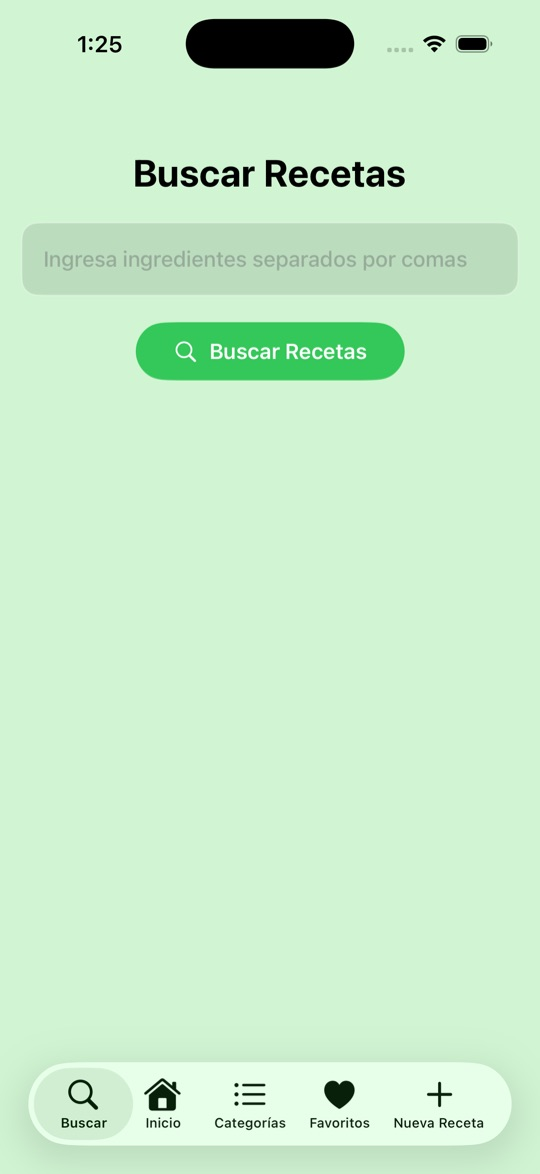
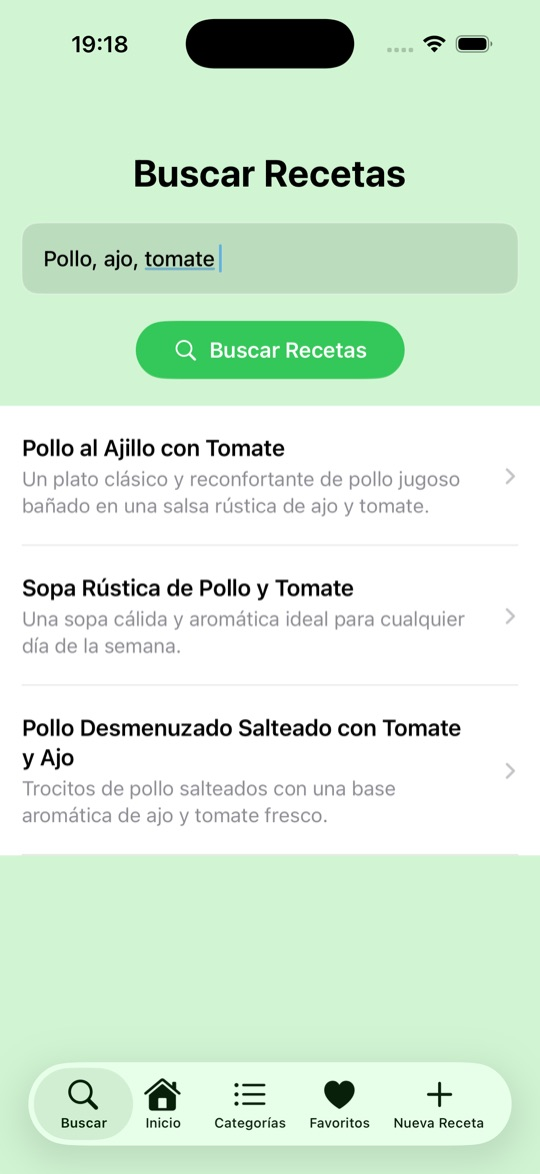
Añade 4 capturas de RecipeIA y la destaca como proyecto principal

diff --git a/src/data/site.ts b/src/data/site.ts
@@ -110,25 +110,27 @@ export const projects = {
   title: 'Proyectos',
   items: [
     {
-      name: 'La Mafia',
-      description:
-        'App Android para el sector restauración, pensada para el restaurante La Mafia: carta digital, categorías de platos, reservas de mesa y acceso a plataformas de delivery (Glovo, Uber Eats, Just Eat).',
-      tags: ['Java', 'Android Studio', 'Android'],
-      code: 'https://github.com/maikolcho/La-Mafia',
-      demo: '', // deja vacío si no hay demo
-    },
-    {
       name: 'RecipeIA',
       description:
         'App iOS en SwiftUI con arquitectura MVVM que genera recetas con IA (API de Gemini) a partir de los ingredientes que tienes en casa. Permite guardar favoritas, crear recetas propias y organizarlas en categorías editables, con los datos guardados en el dispositivo.',
       tags: ['Swift', 'SwiftUI', 'MVVM', 'IA', 'API REST', 'iOS'],
       // Capturas: sube imágenes a public/proyectos/ y añade aquí { src, alt }
       images: [
-        { src: '/proyectos/recipeia-1.jpg', alt: 'RecipeIA: pantalla de búsqueda por ingredientes' },
-        { src: '/proyectos/recipeia-2.jpg', alt: 'RecipeIA: pantalla de categorías' },
+        { src: '/proyectos/recipeia-1.jpg', alt: 'RecipeIA: recetas generadas con IA a partir de los ingredientes' },
+        { src: '/proyectos/recipeia-2.jpg', alt: 'RecipeIA: receta con ingredientes y pasos numerados' },
+        { src: '/proyectos/recipeia-3.jpg', alt: 'RecipeIA: pantalla de recetas favoritas' },
+        { src: '/proyectos/recipeia-4.jpg', alt: 'RecipeIA: categorías editables' },
       ],
       code: 'https://github.com/maikolcho/RecipeIA',
       demo: '',
+    },
+    {
+      name: 'La Mafia',
+      description:
+        'App Android para el sector restauración, pensada para el restaurante La Mafia: carta digital, categorías de platos, reservas de mesa y acceso a plataformas de delivery (Glovo, Uber Eats, Just Eat).',
+      tags: ['Java', 'Android Studio', 'Android'],
+      code: 'https://github.com/maikolcho/La-Mafia',
+      demo: '', // deja vacío si no hay demo
     },
     {
       // TODO: revisa la descripción y las etiquetas, y añade el vídeo en demo
